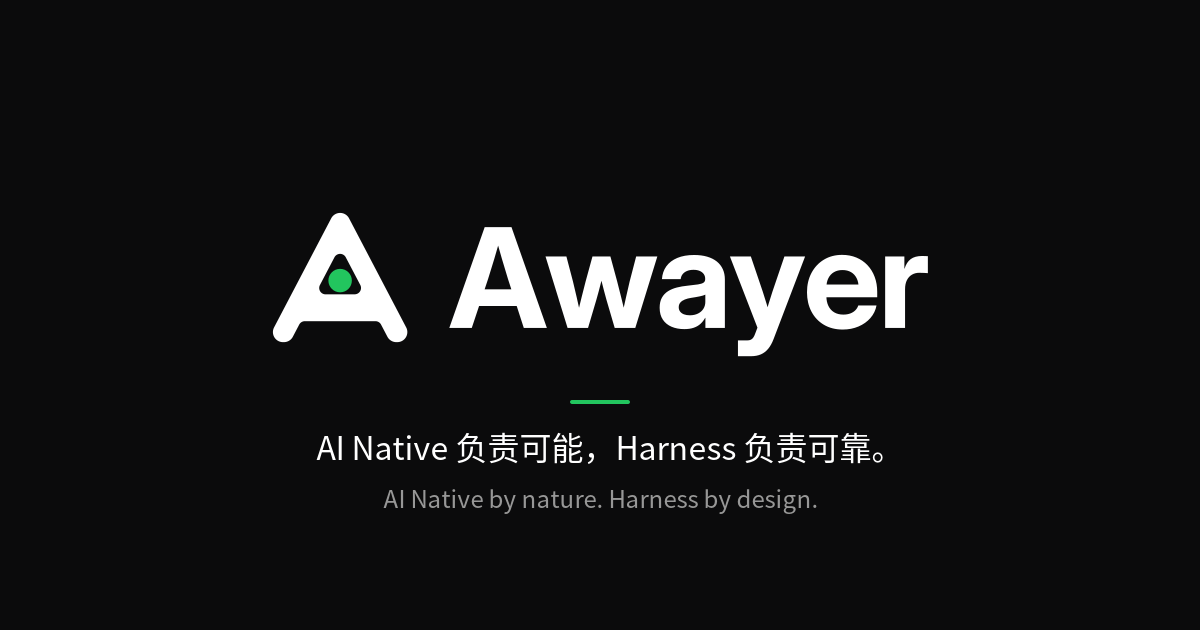
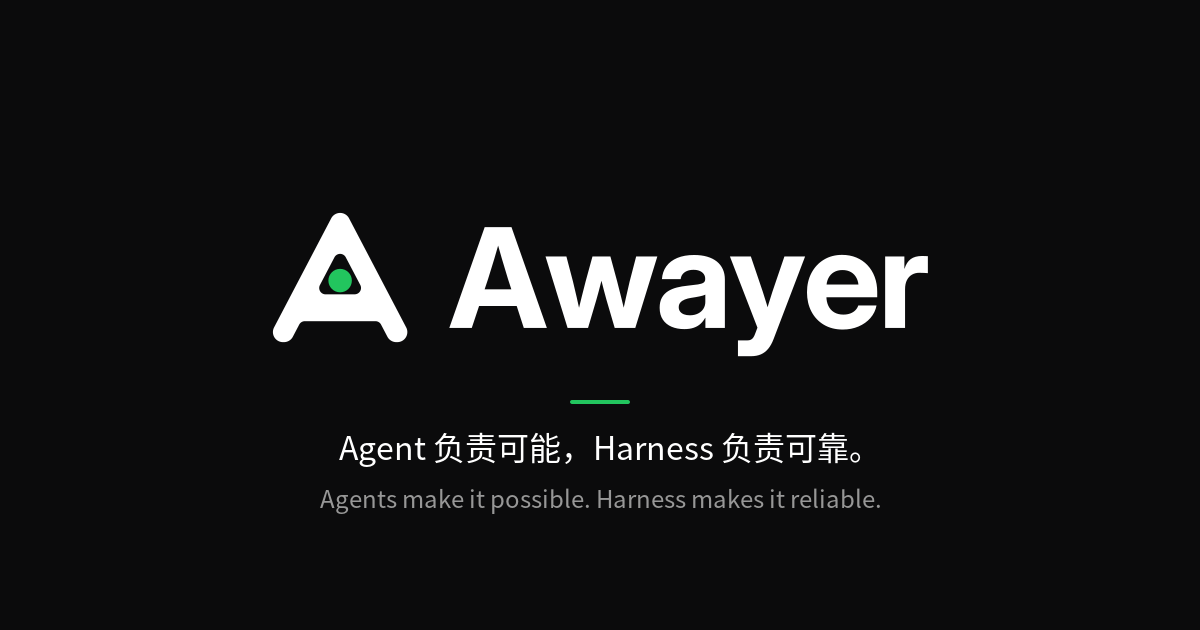
feat: update slogan to Agent / Harness

Changed region(s): [[0.2467, 0.6635, 0.74, 0.754], [0.2467, 0.7841, 0.74, 0.8143]]

diff --git a/src/utils/i18n.ts b/src/utils/i18n.ts
@@ -12,7 +12,7 @@ const english: Record<string, string> = {
     '查看项目归档与相关展示内容。': 'Explore projects and their stories.',
     '按标签浏览文章内容。': 'Browse posts by tag.',
     '一个以中文内容为主的博客与项目展示站点。': 'A personal blog and project showcase.',
-    'AI Native 负责可能，Harness 负责可靠。': 'AI Native by nature. Harness by design.',
+    'Agent 负责可能，Harness 负责可靠。': 'Agents make it possible. Harness makes it reliable.',
     '分享': 'Share', '复制链接': 'Copy link', '已复制': 'Copied',
     '复制失败，请重试': 'Copy failed. Try again.', '主导航': 'Main navigation', '分页': 'Pagination'
 };

diff --git a/src/data/site-config.ts b/src/data/site-config.ts
@@ -3,7 +3,7 @@ import type { SiteConfig } from '../types';
 const siteConfig: SiteConfig = {
     website: 'https://awayercode.github.io',
     title: 'Awayer',
-    subtitle: 'AI Native 负责可能，Harness 负责可靠。',
+    subtitle: 'Agent 负责可能，Harness 负责可靠。',
     description: '一个以中文内容为主的博客与项目展示站点。',
     headerNavLinks: [
         {
